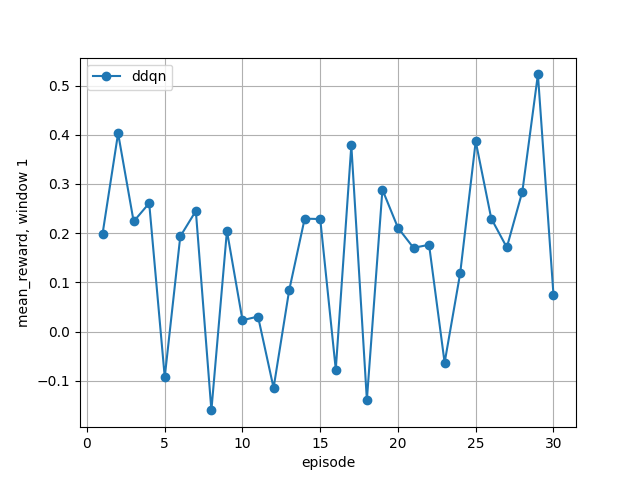
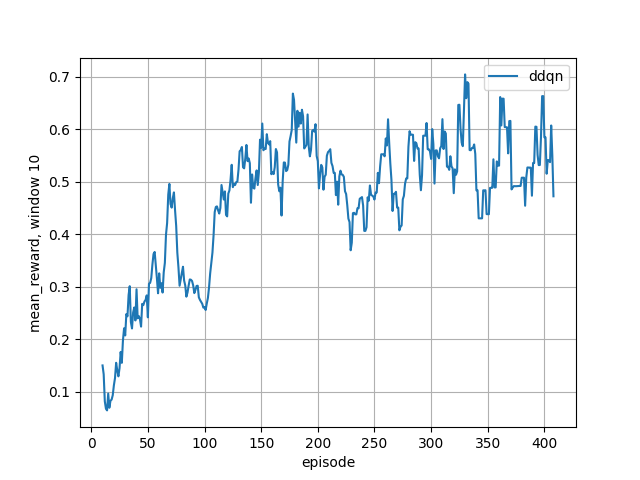
changed fallbck logic

diff --git a/utils/optimum.py b/utils/optimum.py
@@ -50,38 +50,43 @@ class Opt:
                 constraints_satisfied[i] = False
         print(constraints_satisfied)
         print(evaluations)
-        # start with the first split as the default
-        best_split_evaluation = evaluations[min_idx]
-        best_split = feasible_splits[min_idx]
-        # for each split that satisfies constraints, check if it's the minimum
-        for i, opt in enumerate(evaluations):
-            if not constraints_satisfied[i]:
-                continue
-            else:
-                if opt < best_split_evaluation:
-                    min_idx = i
-                    best_split_evaluation = opt
-                    best_split = feasible_splits[min_idx]
-        print('best split {}, min idx {}'.format(best_split, min_idx))
-        # update the variables using the best split
-        flops_offloaded, flops_on_ue = self.get_flops_offloaded(best_split, self.allowed_splits_blocks)
-        # also update the energy credit consumed
-        energy_credit_criteria, energy_credit_consumed = self.check_energy_credit_budget(flops_offloaded)
-        self.total_flops_on_ue += flops_on_ue
-        if energy_credit_criteria:  # update only when the criteria is satisfied, else previous value remains
-            self.energy_credit_consumed = energy_credit_consumed
-            self.total_flops_offloaded += flops_offloaded
-        # however, if none of the feasible splits satisfies the constraints, go to fallback option
+        # none of the feasible splits satisfies the constraints, continue with the previous split
         if True not in constraints_satisfied:
-            best_split = [(0, 0, 18), (1, 18, 18), (2, 18, 18), (3, 18, 18)]
-            print('No feasible solution found - ue computes everything')
-            # the flops on ue due to this selected split is the total flops
-            flops_on_ue = self.total_flops
+            return self.opt_split
+        else:
+            # start with the first split as the default
+            best_split_evaluation = evaluations[min_idx]
+            best_split = feasible_splits[min_idx]
+            # for each split that satisfies constraints, check if it's the minimum
+            for i, opt in enumerate(evaluations):
+                if not constraints_satisfied[i]:
+                    continue
+                else:
+                    if opt < best_split_evaluation:
+                        min_idx = i
+                        best_split_evaluation = opt
+                        best_split = feasible_splits[min_idx]
+            print('best split {}, min idx {}'.format(best_split, min_idx))
+            # update the variables using the best split
+            flops_offloaded, flops_on_ue = self.get_flops_offloaded(best_split, self.allowed_splits_blocks)
+            # also update the energy credit consumed
+            energy_credit_criteria, energy_credit_consumed = self.check_energy_credit_budget(flops_offloaded)
             self.total_flops_on_ue += flops_on_ue
-        print(self.total_flops_offloaded)
-        print(self.total_flops_on_ue)
-        #self.opt_split = best_split
-        return best_split
+            if energy_credit_criteria:  # update only when the criteria is satisfied, else previous value remains
+                self.energy_credit_consumed = energy_credit_consumed
+                self.total_flops_offloaded += flops_offloaded
+            # however, if none of the feasible splits satisfies the constraints, go to fallback option
+            #if True not in constraints_satisfied:
+            #    best_split = [(0, 0, 18), (1, 18, 18), (2, 18, 18), (3, 18, 18)]
+            #    print('No feasible solution found - ue computes everything')
+            #    # the flops on ue due to this selected split is the total flops
+            #    flops_on_ue = self.total_flops
+            #    self.total_flops_on_ue += flops_on_ue
+            #print(self.total_flops_offloaded)
+            #print(self.total_flops_on_ue)
+            #self.opt_split = best_split
+            self.opt_split = best_split
+            return best_split
 
     def get_flops_offloaded(self, selected_split_config, allowed_splits_blocks):
         """

diff --git a/main.py b/main.py
@@ -148,9 +148,9 @@ for ep in range(start_episode, scenario_params['n_episodes'] + 1):
         if scenario_params['split_algorithm'] == 2:
             success_rate_per_episode.append({'time_step': k,
                                          'success_rate': (agent.agent.n_success / agent.agent.n_attempts_to_split) * 100})
-        total_flops_offloaded_per_episode.append({'time_step': k, 'y_net': agent.agent.total_flops_offloaded})
-        total_flops_on_ue_per_episode.append({'time_step': k, 'y_ue': agent.agent.total_flops_on_ue})
-        energy_credit_consumed_per_episode.append({'time_step': k, 'energy_credit': agent.agent.energy_credit_consumed})
+            total_flops_offloaded_per_episode.append({'time_step': k, 'y_net': agent.agent.total_flops_offloaded})
+            total_flops_on_ue_per_episode.append({'time_step': k, 'y_ue': agent.agent.total_flops_on_ue})
+            energy_credit_consumed_per_episode.append({'time_step': k, 'energy_credit': agent.agent.energy_credit_consumed})
         # -----------------------
         # Final Classification Output
         # -----------------------

diff --git a/postprocessing/convergence.py b/postprocessing/convergence.py
@@ -10,10 +10,10 @@ from utils.logging_utils import read_single_col_data, return_order, parse_episod
 
 
 def plot_metric(metric, df, outfile, folder):
-    window = 1
+    window = 10
     fig, ax = plt.subplots()
     roll_mean_loss = df[metric].rolling(window=window).mean()
-    plt.plot(df['episode'], roll_mean_loss, marker='o', label='ddqn')
+    plt.plot(df['episode'], roll_mean_loss, label='ddqn')
     ax.set_xlabel('episode')
     ax.set_ylabel('{}, window {}'.format(metric, window))
     ax.legend()
@@ -47,7 +47,7 @@ def main():
 
     params = generate_scenario()
     # specify the number of episodes to be plotted
-    n_episodes = 30
+    n_episodes = 408
     order_to_convert = 100
     generate_metric(params, n_episodes, order_to_convert, 'mean_loss')
     generate_metric(params, n_episodes, order_to_convert, 'mean_reward')
